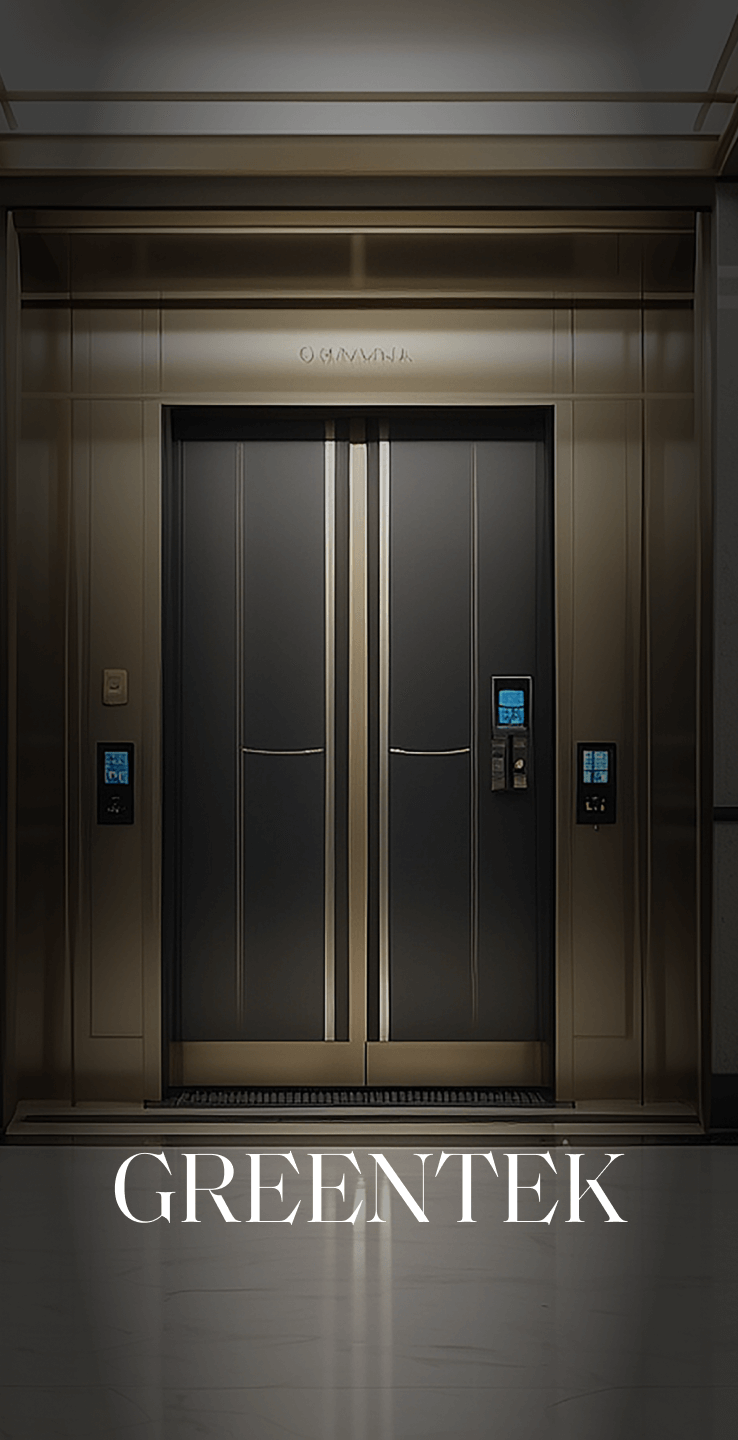
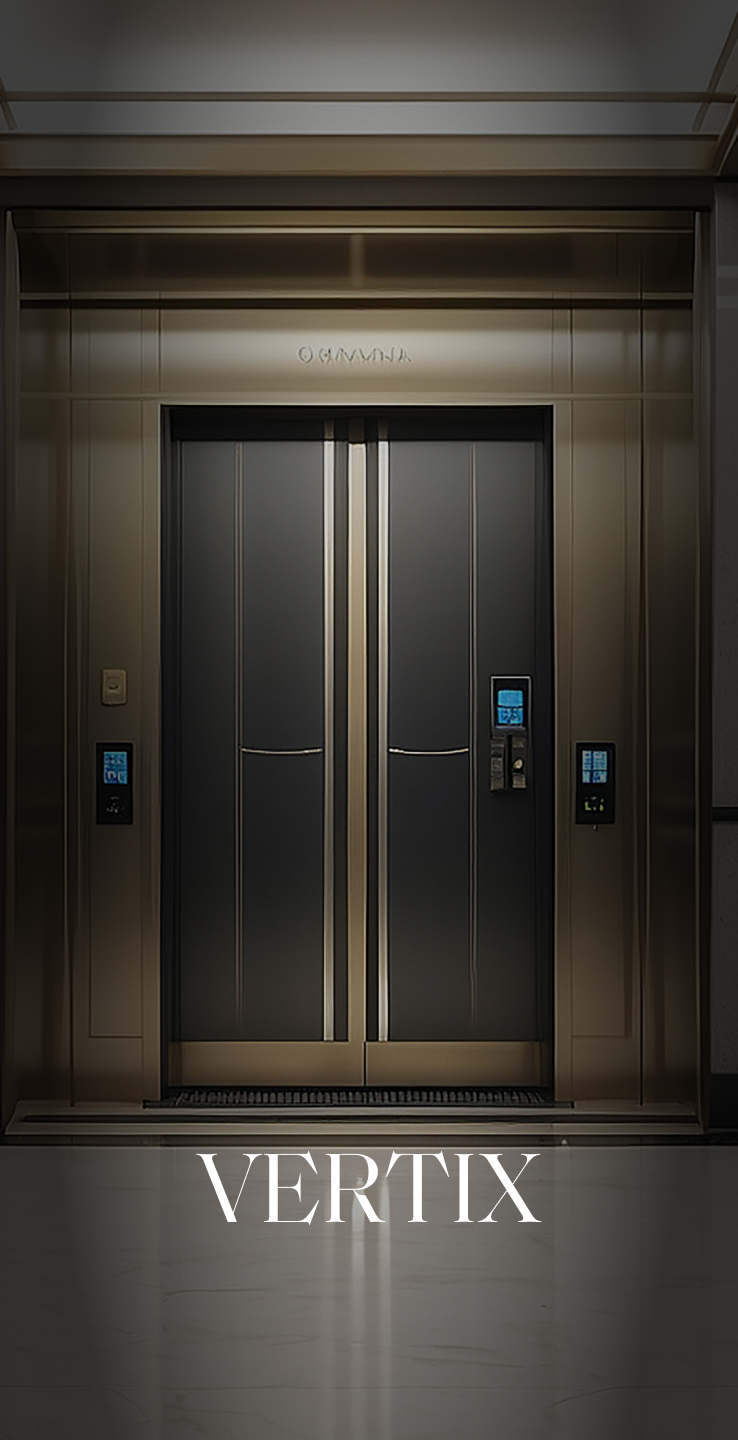
updates

diff --git a/components/Footer.js b/components/Footer.js
@@ -85,7 +85,7 @@ const current_year = current_date.getFullYear(); // Get the current year
                 </div>
               </div>
               <button className="border-0 " style={{"background-color":"black","position":"absolute","right":"10px","top":"10%"}} type="button">
-              <Image src="img/right-carousel.png" className="w-12" alt=""   width={16}
+              <Image src="/img/right-carousel.png" className="w-12" alt=""   width={16}
                   height={16} />
               </button>
             </form>
@@ -127,7 +127,7 @@ const current_year = current_date.getFullYear(); // Get the current year
   </div>
 </section>
 
-     <Link href="https://wa.me/911234657980?text=hi" style={{position:"fixed",right:"10px",bottom:"100px"}}><Image src="img/whatsapp.png" width={80} height={80} alt="whatsapp" /></Link>
+     <Link href="https://wa.me/911234657980?text=hi" style={{position:"fixed",right:"10px",bottom:"100px"}}><Image src="/img/whatsapp.png" width={80} height={80} alt="whatsapp" /></Link>
      <a data-bs-toggle="modal" data-bs-target="#exampleModal" style={{position:"fixed",right:"22px",bottom:"200px",}}><i class="fa-solid fa-envelope" style={{fontSize:"28px",width:"50px", height:"50px",borderRadius:"50%",border:'1px solid #fff',padding:"10px 10px"}}></i></a>
     </>
   );

diff --git a/pages/vertix.js b/pages/vertix.js
@@ -9,16 +9,16 @@ import SimpleCarousel from '../components/SimpleCarousel';
 export default function Home() {
    const slides = [
     {
-      mobile: 'img/mobile/Banner Mobile 1 - Vertix.png',
-      desktop: 'img/Elevators/v/Banner 1.webp',
+      mobile: '/img/mobile/Banner Mobile 1 - Vertix.png',
+      desktop: '/img/Elevators/v/Banner 1.webp',
     },
     {
-      mobile: 'img/mobile/Banner Mobile 2 - Vertix.png',
-      desktop: 'img/Elevators/v/Banner 2.webp',
+      mobile: '/img/mobile/Banner Mobile 2 - Vertix.png',
+      desktop: '/img/Elevators/v/Banner 2.webp',
     },
     {
-      mobile: 'img/mobile/Banner Mobile 3 - Vertix.png',
-      desktop: 'img/Elevators/v/Banner 3.webp',
+      mobile: '/img/mobile/Banner Mobile 3 - Vertix.png',
+      desktop: '/img/Elevators/v/Banner 3.webp',
     },
   ];
     return (

diff --git a/components/CommonModal.js b/components/CommonModal.js
@@ -173,7 +173,7 @@ const CommanModal = () => {
                       )}
                     </div>
 
-                    <div className="form-check mb-4">
+                    <div className="form-check mb-4 d-none">
                       <input
                         type="checkbox"
                         className="form-check-input"
@@ -182,7 +182,7 @@ const CommanModal = () => {
                         onChange={handleChange}
                       />
                       <p
-                        className="form-check-label font-11 font-light-color text-white"
+                        className="form-check-label font-11 font-light-color text-white "
                         htmlFor="terms"
                       >
                         By providing Global Collective your contact information,

diff --git a/styles/style.css b/styles/style.css
@@ -14,7 +14,7 @@ body {
   width: 100%;
   overflow-x: hidden !important;
   box-sizing: border-box;
-  background: #000;
+  background: #000 !important;
   color: #fff !important;
 }
 
@@ -24,7 +24,7 @@ body {
   height: 90px;
   padding-top: 30px !important;
 }
-
+.w-100 {object-fit:cover !important ;}
 .dropdown-menu .dropdown-item:hover {
   background-color: black !important;
   color: #ad9515 !important;

diff --git a/components/ConnectForm.js b/components/ConnectForm.js
@@ -150,7 +150,7 @@ const ConnectForm = () => {
                 {errors.message && <small className="text-danger">{errors.message}</small>}
               </div>
 
-              <div className="form-check mb-4">
+              <div className="form-check mb-4 d-none">
                 <input
                   type="checkbox"
                   className="form-check-input"
